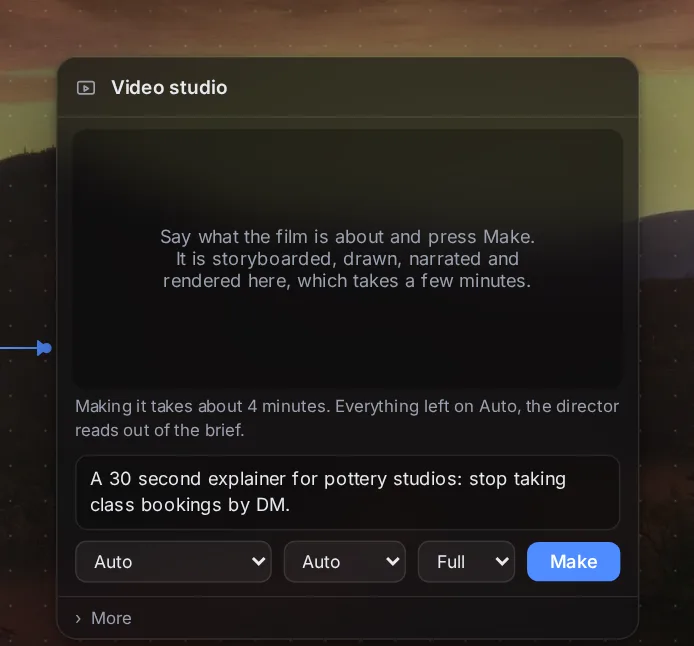
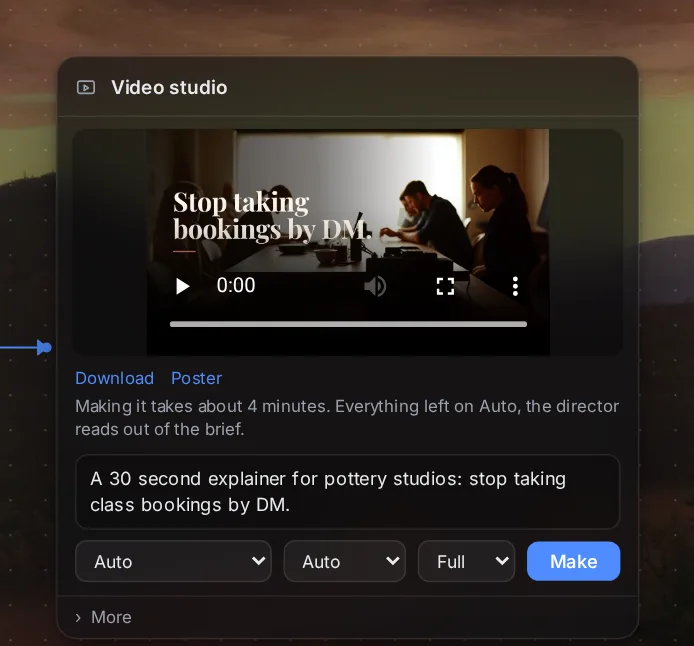
Give a lead's name the whole width of its row, and retake the site's pictures of a stage that looks lived in
A leads column on a card of ordinary width is about a hundred pixels, and the score beside the name took a third
of it, so the board showed "Priya…" and "Tom …". The name and the company now each take the row, the company two
lines if it needs them, and the score sits in the corner under them.

The site's pictures: Maya's room is tall enough for her whole conversation, so nothing is scrolled half under the
header; Dev and Rafa each have a second exchange; the leads card holds nine leads; the video studio shows the
film Maya made, a drawn picture typeset with its headline, instead of its empty hint. The dashboard is taken with
the board Dev put the demo work on and a decision Rafa asked for, so Today's five, Due today and the tasks are
full, and with only the health rows that pass, since health describes the machine taking the picture rather
than the company in it. No key of the founder's reaches the app being pictured.

diff --git a/app/scripts/site-shots.ts b/app/scripts/site-shots.ts
@@ -8,8 +8,8 @@
 // Desktop gives the whole stage and a crop of each card on it; phone gives the app as a phone shows it. The app has
 // one theme, dark, so each view is captured once; the site shows the same pictures in both of its themes.
 // SITE_SHOTS_PORT moves the pair of ports (default 7530 for the page, 7531 for the api).
-import { spawn } from 'node:child_process';
-import { mkdir, mkdtemp, rm, writeFile } from 'node:fs/promises';
+import { execFile, spawn } from 'node:child_process';
+import { copyFile, mkdir, mkdtemp, rm, writeFile } from 'node:fs/promises';
 import { tmpdir } from 'node:os';
 import { dirname, join, resolve } from 'node:path';
 import { fileURLToPath } from 'node:url';
@@ -29,9 +29,9 @@ const id = () => `seed-${++serial}`;
 // ---- The seeded company: a made-up studio-booking product, so no real person or business appears. ----
 const stage = {
   rooms: [
-    { id: 'marketing', name: 'Maya', role: 'Marketing', accent: '#ee8a72', brief: 'You are the marketing lead: positioning, copy, launch, audience.', x: 0, y: 0, w: 400, h: 470 },
-    { id: 'build', name: 'Dev', role: 'Build', accent: '#4e8cff', brief: 'You are the engineering lead: architecture, scope, build order, technical risk.', x: 0, y: 530, w: 400, h: 420 },
-    { id: 'sales', name: 'Rafa', role: 'Sales', accent: '#5cc9a7', brief: 'You are the sales lead: who to sell to, first messages, follow-ups.', x: 1320, y: 470, w: 400, h: 420 },
+    { id: 'marketing', name: 'Maya', role: 'Marketing', accent: '#ee8a72', brief: 'You are the marketing lead: positioning, copy, launch, audience.', x: 0, y: 0, w: 400, h: 575 },
+    { id: 'build', name: 'Dev', role: 'Build', accent: '#4e8cff', brief: 'You are the engineering lead: architecture, scope, build order, technical risk.', x: 0, y: 635, w: 400, h: 420 },
+    { id: 'sales', name: 'Rafa', role: 'Sales', accent: '#5cc9a7', brief: 'You are the sales lead: who to sell to, first messages, follow-ups.', x: 1320, y: 470, w: 400, h: 450 },
   ],
   docs: [
     { id: 'brand-doc', title: 'Brand doc', x: 500, y: 20, w: 400, h: 260 },
@@ -62,18 +62,22 @@ const chats: Record<string, unknown[]> = {
     {
       id: id(), role: 'assistant', at: ago(41), provider: 'groq', model: 'llama-3.3-70b',
       tools: [tool('read_doc', { id: 'brand-doc' }, 'Kiln Hours: class bookings for small pottery studios…'), tool('web_search', { query: 'pottery studio booking complaints' }, '6 results')],
-      text: 'Three options, in the brand voice:\n\n1. **Stop taking bookings by DM.**\n2. **Your classes fill. Your evenings stay yours.**\n3. **Bookings, deposits and reminders for small studios.**\n\nI would lead with the first. The six threads I read all complain about the same thing: chasing students in messages.',
+      text: 'Three options, in the brand voice:\n\n1. **Stop taking bookings by DM.**\n2. **Your classes fill. Your evenings stay yours.**\n3. **Bookings, deposits and reminders for small studios.**\n\nI would lead with the first: all six threads I read complain about chasing students in messages.',
     },
     { id: id(), role: 'user', text: 'Good. Make the 30 second film from the first one.', at: ago(12) },
-    { id: id(), role: 'assistant', at: ago(11), provider: 'gemini', model: 'gemini-2.5-flash', tools: [tool('generate_video', { brief: 'Stop taking bookings by DM' }, 'started')], text: 'Started it in the video studio beside me. The draft is ready in about a minute; I will say when the full cut is done.' },
+    { id: id(), role: 'assistant', at: ago(11), provider: 'gemini', model: 'gemini-2.5-flash', tools: [tool('generate_video', { brief: 'Stop taking bookings by DM' }, 'started')], text: 'Done: the film is in the video studio beside me, with a poster from its first frame.' },
   ],
   build: [
     { id: id(), role: 'user', text: 'What do we need before the Friday demo?', at: ago(90) },
-    { id: id(), role: 'assistant', at: ago(89), provider: 'groq', model: 'llama-3.3-70b', tools: [tool('read_file', { path: 'roadmap' }, 'note')], text: 'Two things from your note: the waitlist export and a clean empty state. Payments can wait, as the note says. I put both on the board as tasks.' },
+    { id: id(), role: 'assistant', at: ago(89), provider: 'groq', model: 'llama-3.3-70b', tools: [tool('read_file', { path: 'roadmap' }, 'note')], text: 'Two things from your note: the waitlist export and a clean empty state. Payments can wait, as the note says. I put both on the board for today.' },
+    { id: id(), role: 'user', text: 'How long is the export?', at: ago(52) },
+    { id: id(), role: 'assistant', at: ago(51), provider: 'groq', model: 'llama-3.3-70b', text: 'An afternoon. It is one CSV of name, email, studio and the class they asked about, so a studio can paste it into what they already use.' },
   ],
   sales: [
     { id: id(), role: 'user', text: 'Who should we write to first?', at: ago(30) },
     { id: id(), role: 'assistant', at: ago(29), provider: 'groq', model: 'llama-3.3-70b', tools: [tool('list_leads', {}, '5 leads')], text: 'Start with Priya at Clayfield. She asked for exactly this in a forum thread last month, so the first message can quote her. I scored her 9 of 10.' },
+    { id: id(), role: 'user', text: 'Draft it. Short.', at: ago(18) },
+    { id: id(), role: 'assistant', at: ago(17), provider: 'groq', model: 'llama-3.3-70b', text: 'Hi Priya, you asked on the forum for bookings that take a deposit. We built that for studios your size. Could I show you in ten minutes this week?\n\nIt is waiting for your OK before it goes.' },
   ],
 };
 
@@ -87,7 +91,43 @@ const leads = [
   lead('Lena Voss', 'Founder', 'Slip House', 'replied', 8, 'Replied: wants deposits', 1600),
   lead('Marco Bell', 'Owner', 'Riverbank Ceramics', 'new', undefined, undefined, 60),
   lead('June Park', 'Director', 'Fireside Clay', 'meeting', 9, 'Two teachers, a waitlist of 30', 3000),
+  lead('Sam Ortiz', 'Owner', 'Mud Room', 'new', undefined, undefined, 45),
+  lead('Ada Lowe', 'Teacher', 'Kiln Street', 'fit', 8, 'Takes bookings on a paper sheet', 500),
+  lead('Noor Haddad', 'Owner', 'Glaze Lab', 'contacted', 6, 'One teacher, weekend classes only', 1100),
+  lead('Ben Fischer', 'Founder', 'Clay Corner', 'replied', 8, 'Replied: asked about the price', 2000),
 ];
+
+// The film Maya started, finished: its poster is a picture the studio drew, typeset the way the studio does it
+// (scripts/site-shots/film-poster.jpg), and the film itself is that frame held for a few seconds.
+const film = { path: 'media/kiln-hours-film.mp4', poster: 'media/kiln-hours-film.jpg', prompt: stage.cards[1]!.brief!, at: ago(9), by: 'Maya' };
+
+// The board Dev put the demo work on. It sits on the stage only while the dashboard is captured (`withBoard`), so the
+// stage pictures keep their layout, and the dashboard shows the day's work the way a founder's does.
+const day = new Date(now);
+const todayIs = `${day.getFullYear()}-${String(day.getMonth() + 1).padStart(2, '0')}-${String(day.getDate()).padStart(2, '0')}`;
+const evening = new Date(now); evening.setHours(23, 30, 0, 0);
+const tasks = [
+  { id: id(), title: 'Waitlist export as CSV', detail: '', column: 'todo', createdAt: ago(89), assignee: 'build', due: todayIs },
+  { id: id(), title: 'A clean empty state for a new studio', detail: '', column: 'todo', createdAt: ago(89), assignee: 'build', due: todayIs },
+  { id: id(), title: 'Evening check of the waitlist sign-ups', detail: '', column: 'todo', createdAt: ago(60 * 24 * 6), assignee: 'marketing', repeat: { every: 'day', time: '23:30' }, nextRun: evening.getTime() },
+];
+const decision = `# Take a deposit at booking?
+
+- status: proposed
+- proposed by: Rafa
+- at: ${new Date(ago(25)).toISOString()}
+
+## Context
+
+Lena at Slip House replied that no-shows cost her a class a week.
+
+## Options
+
+1. A deposit of 20% at booking
+2. No deposit, a reminder the day before
+
+Recommended: A deposit of 20% at booking
+`;
 
 // Two watched pages that changed: each is a row in Needs you and on the dashboard.
 const watch = (room: string, title: string, url: string, diff: string, minutes: number) => [{
@@ -95,7 +135,7 @@ const watch = (room: string, title: string, url: string, diff: string, minutes: 
 }];
 
 async function seed(dir: string) {
-  for (const sub of ['docs', 'rooms', 'leads', 'watch']) await mkdir(join(dir, sub), { recursive: true });
+  for (const sub of ['docs', 'rooms', 'leads', 'watch', 'media', 'boards', 'decisions', join('files', 'media')]) await mkdir(join(dir, sub), { recursive: true });
   await writeFile(join(dir, 'stage.json'), JSON.stringify(stage, null, 2));
   // The first-run checklist is for a founder's first day, not for a picture of the product.
   await writeFile(join(dir, 'missions.json'), JSON.stringify({ dismissed: true }));
@@ -103,6 +143,11 @@ async function seed(dir: string) {
   for (const [key, list] of Object.entries(chats)) await writeFile(join(dir, 'rooms', `${key}.json`), JSON.stringify(list, null, 2));
   await writeFile(join(dir, 'leads', 'leads.json'), JSON.stringify(leads, null, 2));
   await writeFile(join(dir, 'watch', 'marketing.json'), JSON.stringify(watch('marketing', 'Rival pricing', 'https://rival.example/pricing', '+ Studio plan is now $29 a month', 20)));
+  await copyFile(join(app, 'scripts', 'site-shots', 'film-poster.jpg'), join(dir, 'files', film.poster));
+  await new Promise<void>((done, fail) => execFile('ffmpeg', ['-loglevel', 'error', '-loop', '1', '-i', join(dir, 'files', film.poster), '-t', '3', '-r', '25', '-pix_fmt', 'yuv420p', '-c:v', 'libx264', join(dir, 'files', film.path)], (error) => (error ? fail(error) : done())));
+  await writeFile(join(dir, 'media', 'film.json'), JSON.stringify({ state: 'idle', log: [], results: [film] }));
+  await writeFile(join(dir, 'boards', 'board.json'), JSON.stringify(tasks, null, 2));
+  await writeFile(join(dir, 'decisions', 'take-a-deposit-at-booking.md'), decision);
   await writeFile(join(dir, 'watch', 'sales.json'), JSON.stringify(watch('sales', 'Kilnbook changelog', 'https://kilnbook.example/changelog', '+ Waitlists for classes', 70)));
 }
 
@@ -152,12 +197,38 @@ async function unfocus(page: Page) {
   await page.getByRole('dialog', { name: 'Focused card' }).waitFor({ state: 'hidden' });
 }
 
+// The board goes on the stage for the dashboard and comes off again after, through the api a window uses.
+async function withBoard(on: boolean) {
+  const api = `http://127.0.0.1:${port + 1}/api/stage`;
+  const headers = { 'x-stage-token': token, 'content-type': 'application/json' };
+  const now = await (await fetch(api, { headers })).json() as { cards?: { id: string }[] };
+  const cards = (now.cards ?? []).filter((card) => card.id !== 'board');
+  if (on) cards.push({ kind: 'board', id: 'board', x: 1000, y: 1080, w: 900, h: 400 } as { id: string });
+  const res = await fetch(api, { method: 'PUT', headers, body: JSON.stringify({ ...now, cards }) });
+  if (!res.ok) throw new Error(`the stage would not take the board: ${res.status}`);
+}
+
+// Health is about the machine the app runs on, not the company in the picture: on this one, without keys, every
+// optional service says it is not set up. The picture shows the rows that pass, as a founder who has set things up
+// sees them, so the dashboard's badge is as calm as theirs.
+async function calmHealth(page: Page) {
+  await page.route('**/api/dashboard', async (route) => {
+    const res = await route.fetch();
+    const body = await res.json() as { health?: { ok: boolean; warn?: boolean }[] };
+    body.health = (body.health ?? []).filter((row) => row.ok && !row.warn);
+    await route.fulfill({ response: res, json: body });
+  });
+}
+
 const workspace = await mkdtemp(join(tmpdir(), 'site-shots-'));
 await seed(workspace);
 await mkdir(out, { recursive: true });
+// No key of the founder's reaches the app being pictured: the fake model answers, and nothing is asked of a service.
+const SECRET = /(KEY|TOKEN|SECRET|PASSWORD|ACCOUNT_ID|^GMAIL_USER|^OPENOUTFIND_.*)(_\d+)?$/;
+const env = Object.fromEntries(Object.entries(process.env).filter(([name]) => !SECRET.test(name)));
 const server = spawn('node', ['scripts/dev.mjs'], {
   cwd: app, stdio: 'ignore', detached: true,
-  env: { ...process.env, STAGE_PORT: String(port), STAGE_API_PORT: String(port + 1), STAGE_FAKE_MODEL: '1', STAGE_API_TOKEN: token, STAGE_WORKSPACE: workspace, STAGE_NO_CODE_WATCH: '1', STAGE_NO_LOCAL: '1' },
+  env: { ...env, STAGE_NO_ENV_FILE: '1', STAGE_PORT: String(port), STAGE_API_PORT: String(port + 1), STAGE_FAKE_MODEL: '1', STAGE_API_TOKEN: token, STAGE_WORKSPACE: workspace, STAGE_NO_CODE_WATCH: '1', STAGE_NO_LOCAL: '1' },
 });
 const stop = () => { try { process.kill(-server.pid!, 'SIGTERM'); } catch { /* already gone */ } };
 process.on('exit', stop);
@@ -171,6 +242,7 @@ try {
   {
     const context = await browser.newContext({ viewport: { width: 1440, height: 900 }, deviceScaleFactor: 2, colorScheme: 'dark' });
     const page = await context.newPage();
+    await calmHealth(page);
     page.setDefaultTimeout(90_000); // a busy machine compiles the page slowly the first time
     await page.goto(base);
     await page.locator('.react-flow__node[data-id="marketing"] .msg--assistant').first().waitFor();
@@ -183,10 +255,12 @@ try {
     await crop(page, 'film-crop', [card('film')], { below: 4 });
     await crop(page, 'leads-crop', [card('leads')]);
 
+    await withBoard(true);
     const dash = page.getByRole('dialog', { name: 'Dashboard' });
     await page.keyboard.press('Control+d');
     await dash.waitFor();
     await dash.locator('.dash__chart svg').waitFor();
+    await dash.getByText('Waitlist export as CSV').first().waitFor();
     await crop(page, 'dashboard-crop', [dash], { most: 560 });
     await page.keyboard.press('Control+d');
     await dash.waitFor({ state: 'hidden' });
@@ -195,12 +269,14 @@ try {
     await page.locator('.needs li').first().waitFor();
     await crop(page, 'needs-crop', [page.getByRole('dialog', { name: 'Needs you' })]);
     await context.close();
+    await withBoard(false);
   }
 
   // Phone: the app as a phone shows it, cropped to what is on screen so a picture is not half empty.
   {
     const context = await browser.newContext({ viewport: { width: 390, height: 844 }, deviceScaleFactor: 2, colorScheme: 'dark' });
     const page = await context.newPage();
+    await calmHealth(page);
     page.setDefaultTimeout(90_000);
     await page.goto(base);
     await page.locator('.react-flow__node[data-id="marketing"] .msg--assistant').first().waitFor();
@@ -211,10 +287,12 @@ try {
     await crop(page, 'leads-phone', [page.getByRole('dialog', { name: 'Focused card' })], { most: 300 });
     await unfocus(page);
 
+    await withBoard(true);
     const dash = page.getByRole('dialog', { name: 'Dashboard' });
     await page.keyboard.press('Control+d');
     await dash.waitFor();
     await dash.locator('.dash__chart svg').waitFor();
+    await dash.getByText('Waitlist export as CSV').first().waitFor();
     await shot(page, 'dashboard', 'phone');
     await page.keyboard.press('Control+d');
     await dash.waitFor({ state: 'hidden' });

diff --git a/app/src/nodes/leads.css b/app/src/nodes/leads.css
@@ -24,12 +24,14 @@
 .leads__empty { flex: 1; align-self: center; margin: 0; padding: 0 16px; text-align: center; font-size: 12.5px; line-height: 1.5; color: var(--muted); }
 .leads__twenty { margin: 0; padding: 4px 12px 8px; font-size: 11.5px; color: var(--muted); }
 
-.lead { display: grid; grid-template-columns: 1fr auto; grid-template-areas: 'name fit' 'company fit'; align-items: center; gap: 1px 8px; width: 100%; padding: 7px 9px; border: 1px solid var(--card-border); border-radius: 9px; background: rgba(255, 255, 255, 0.05); color: var(--text); font: inherit; text-align: left; cursor: pointer; transition: background 0.15s, border-color 0.15s; }
+/* A column on a card of ordinary width is narrow: the name and the company each take the whole width, the company two
+   lines if it needs them, and the score sits in the corner under them, so no name is cut to a few letters. */
+.lead { display: grid; grid-template-columns: 1fr auto; grid-template-areas: 'name name' 'company company' '. fit'; align-items: start; gap: 2px 6px; width: 100%; padding: 7px 8px; border: 1px solid var(--card-border); border-radius: 9px; background: rgba(255, 255, 255, 0.05); color: var(--text); font: inherit; text-align: left; cursor: pointer; transition: background 0.15s, border-color 0.15s; }
 .lead:hover { background: rgba(255, 255, 255, 0.1); }
 .lead.is-open { border-color: rgba(78, 140, 255, 0.6); }
 .lead__name { grid-area: name; min-width: 0; overflow: hidden; text-overflow: ellipsis; white-space: nowrap; font-size: 12.5px; font-weight: 550; }
-.lead__company { grid-area: company; min-width: 0; overflow: hidden; text-overflow: ellipsis; white-space: nowrap; font-size: 11.5px; color: var(--muted); }
-.lead__fit { grid-area: fit; min-width: 22px; padding: 2px 6px; border-radius: 7px; text-align: center; font-size: 11px; font-weight: 650; color: var(--muted); background: rgba(255, 255, 255, 0.08); }
+.lead__company { grid-area: company; min-width: 0; overflow: hidden; display: -webkit-box; -webkit-box-orient: vertical; -webkit-line-clamp: 2; line-clamp: 2; font-size: 11.5px; line-height: 1.3; color: var(--muted); }
+.lead__fit { grid-area: fit; justify-self: end; margin-top: 2px; min-width: 20px; padding: 1px 5px; border-radius: 7px; text-align: center; font-size: 11px; font-weight: 650; color: var(--muted); background: rgba(255, 255, 255, 0.08); }
 .lead__fit.is-good { color: #0b0c10; background: var(--ok); }
 
 .leadview { position: absolute; top: 0; right: 0; bottom: 0; z-index: 2; width: min(340px, 100%); display: flex; flex-direction: column; border-left: 1px solid var(--card-border); border-radius: 0 13px 13px 0; background: rgba(14, 15, 19, 0.985); box-shadow: -18px 0 40px rgba(0, 0, 0, 0.35); cursor: auto; animation: leadview-in 0.24s cubic-bezier(0.2, 0.8, 0.2, 1) both; }

diff --git a/app/src/nodes/leads-nudge.css b/app/src/nodes/leads-nudge.css
@@ -1,5 +1,6 @@
 /* The quiet mark on a lead that is owed a message: one warm dot in the row's corner, explained on hover. */
 .lead:has(.lead__chase) { position: relative; }
+.lead:has(.lead__chase) .lead__name { padding-right: 8px; }
 .lead__chase { position: absolute; top: 6px; right: 6px; width: 6px; height: 6px; border-radius: 50%; background: var(--needs); box-shadow: 0 0 0 2px rgba(230, 169, 60, 0.18); cursor: help; animation: lead-chase-in 0.3s ease both; }
 @keyframes lead-chase-in { from { opacity: 0; transform: scale(0.4); } to { opacity: 1; transform: none; } }
 @media (prefers-reduced-motion: reduce) { .lead__chase { animation: none; } }
